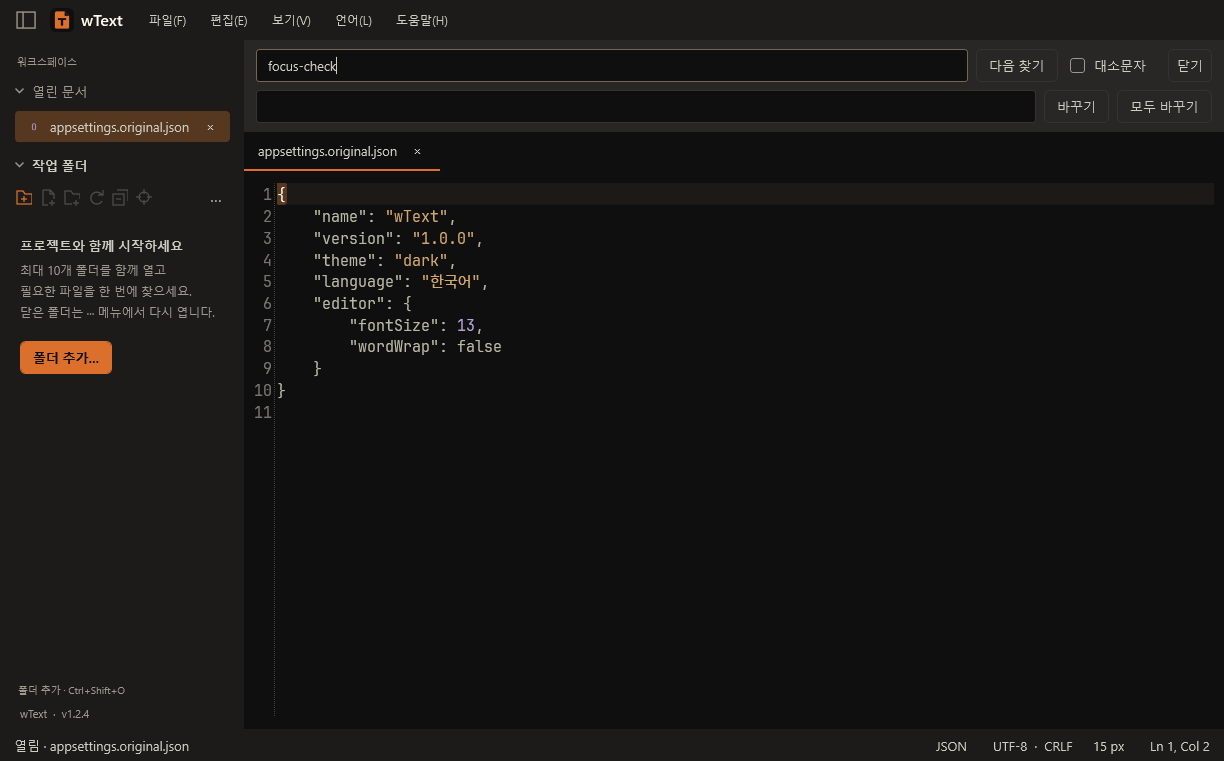
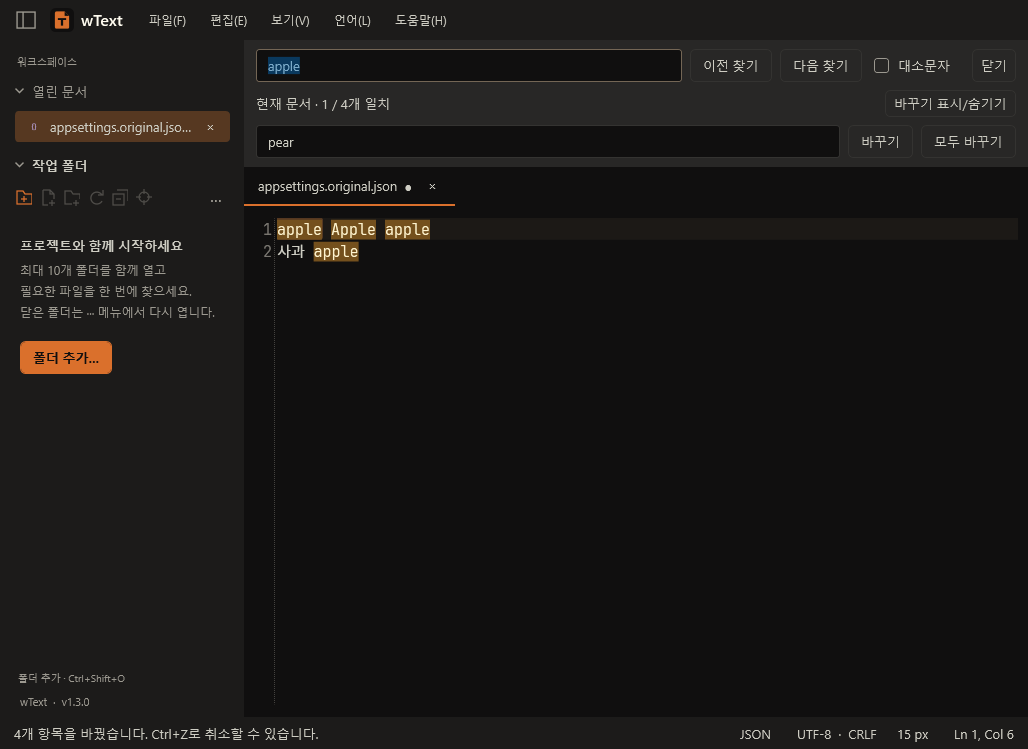
Fix PowerShell packaging arguments and update verified search screenshot

diff --git a/CHANGELOG.md b/CHANGELOG.md
@@ -6,7 +6,9 @@
 - 이전 찾기, Shift+F3·Shift+Enter와 찾기 화면의 바꾸기 표시/숨기기 추가. 모두 바꾸기와 강조 표시에 같은 검색 규칙 적용.
 - 검색 범위·대소문자·줄바꿈 단위 테스트 및 강조·이동·모두 바꾸기·한 번에 실행 취소 WPF 회귀 검사 추가.
 - Linux에서 Windows 대상 Release 교차 컴파일 경고·오류 0개, 검색 관련 단위 테스트 18개와 변경 파일 형식·공백 검사 통과. 전체 단위 테스트 120개 중 114개 통과; Windows 경로·숨김 파일·잠금 관련 6개는 변경 전 코드에서도 동일하게 실패.
-- Windows WPF 실행·화면 갱신·설치 검증 및 배포 패키지·체크섬은 공개 배포 전 준비 필요.
+- Windows Release 빌드, 전체 단위 테스트 120개, 전체 WPF 검사 및 형식 검사 통과. 검색 화면 갱신.
+- 수동 Windows 배포 워크플로 추가: 빌드·검사·설치 검증을 통과한 설치 파일·ZIP·체크섬과 검증 화면 보관. PowerShell 7에서도 패키징 옵션이 정확히 전달되도록 인용 처리.
+- 설치 검증 및 배포 패키지·체크섬은 준비 중.
 
 ## 1.2.4 — 2026-10-12
 
